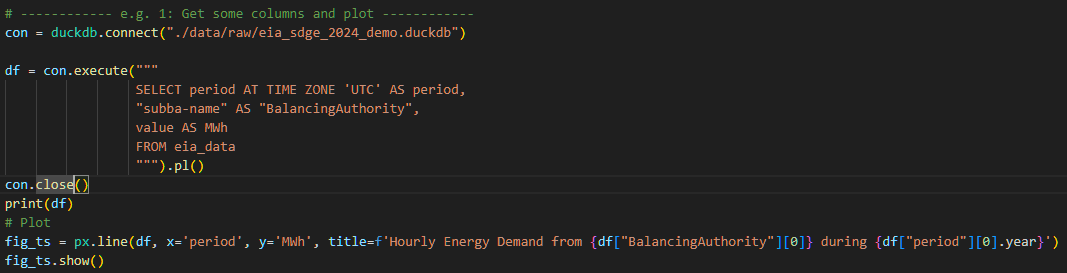
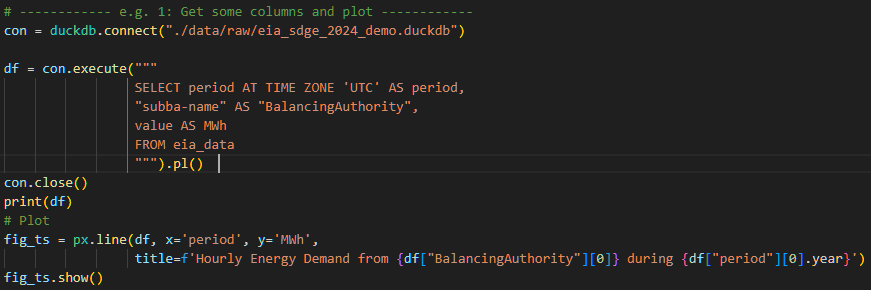
Screenshot image replaced

diff --git a/src/examples/analyse_data_with_duckdb.py b/src/examples/analyse_data_with_duckdb.py
@@ -17,7 +17,8 @@ if __name__ == "__main__":
     con.close()  
     print(df)
     # Plot
-    fig_ts = px.line(df, x='period', y='MWh', title=f'Hourly Energy Demand from {df["BalancingAuthority"][0]} during {df["period"][0].year}')   
+    fig_ts = px.line(df, x='period', y='MWh', 
+                     title=f'Hourly Energy Demand from {df["BalancingAuthority"][0]} during {df["period"][0].year}')   
     fig_ts.show()
 
 
@@ -35,9 +36,9 @@ if __name__ == "__main__":
     print(df_monthly)
     # Plot
     fig_bar = px.bar(df_monthly, x='Month', y='MWh', 
-                 title=f'Monthly Energy Demand from {df_monthly["BalancingAuthority"][0]} during {df["period"][0].year}', 
-                 opacity=0.6, 
-                 text_auto=True)
+                     title=f'Monthly Energy Demand from {df_monthly["BalancingAuthority"][0]} during {df["period"][0].year}', 
+                     opacity=0.6, 
+                     text_auto=True)
     fig_bar.update_xaxes(
         tickmode='array',
         tickvals=[1, 2, 3, 4, 5, 6, 7, 8, 9, 10, 11, 12],
